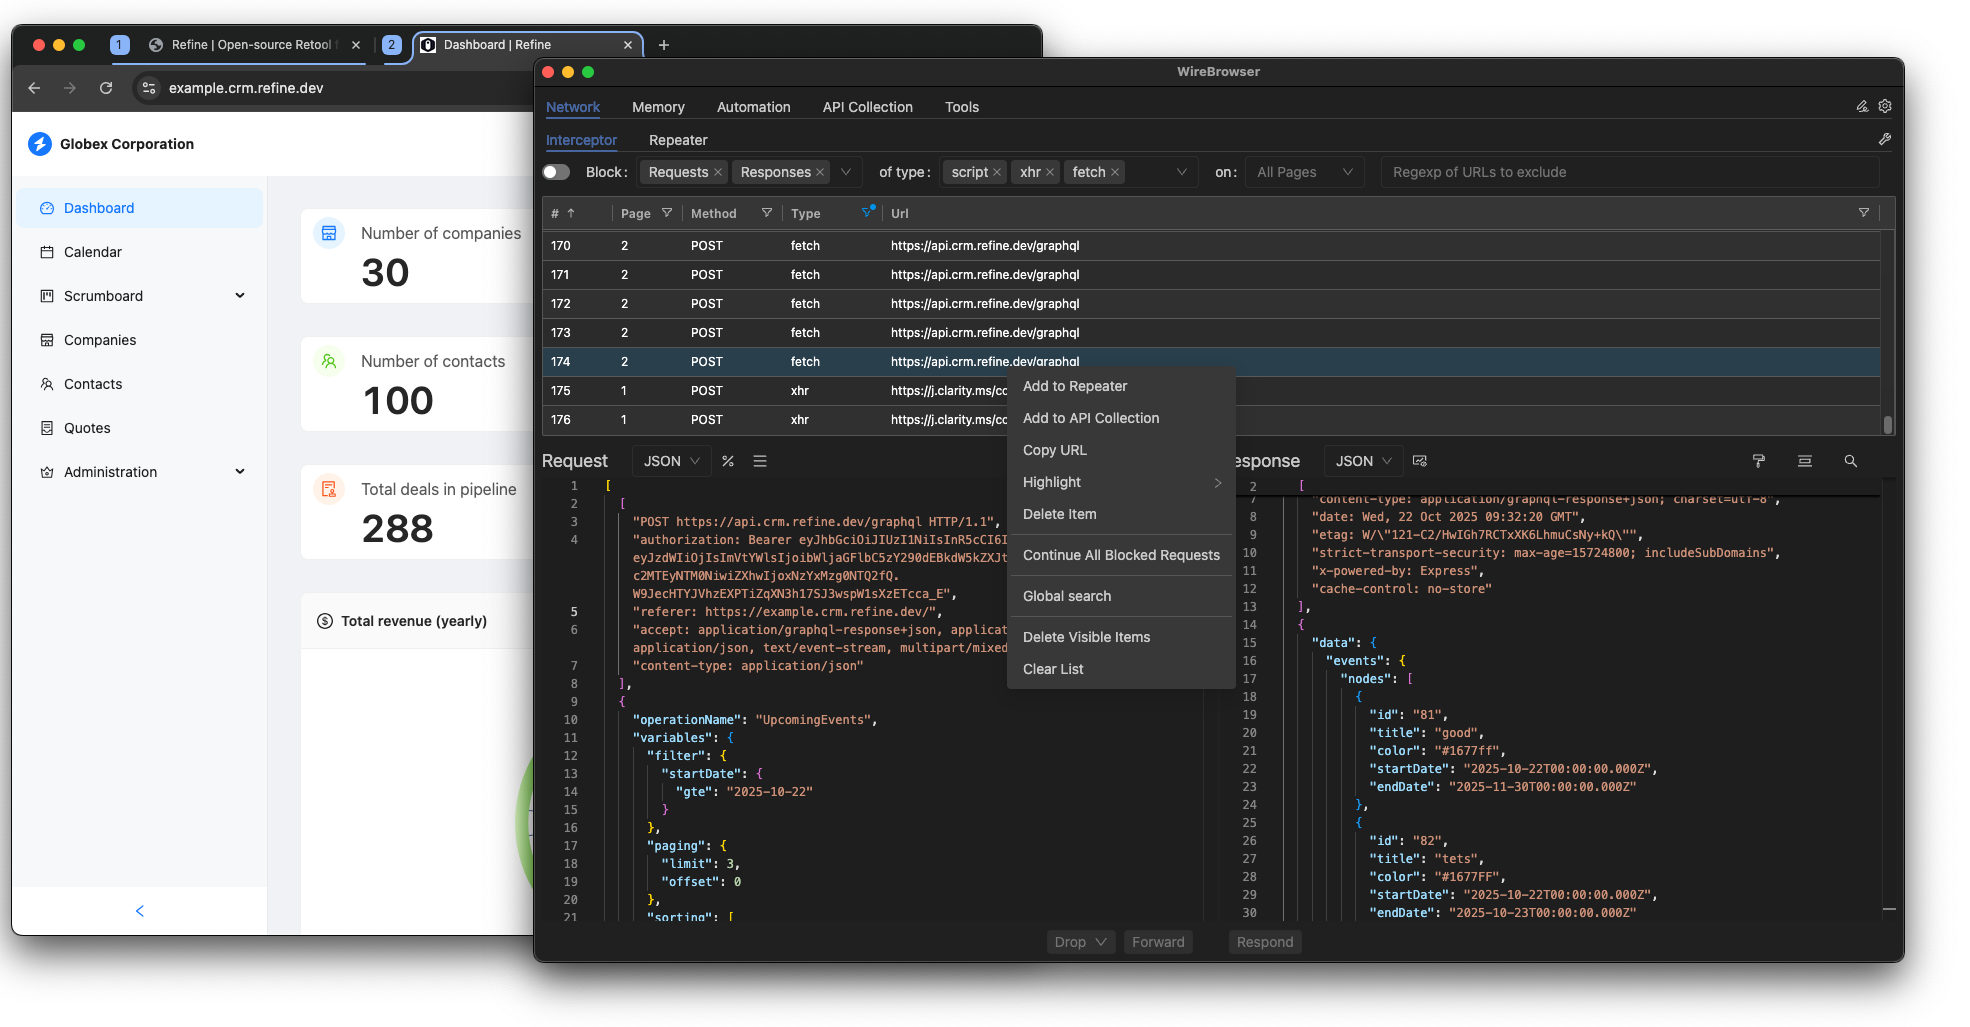
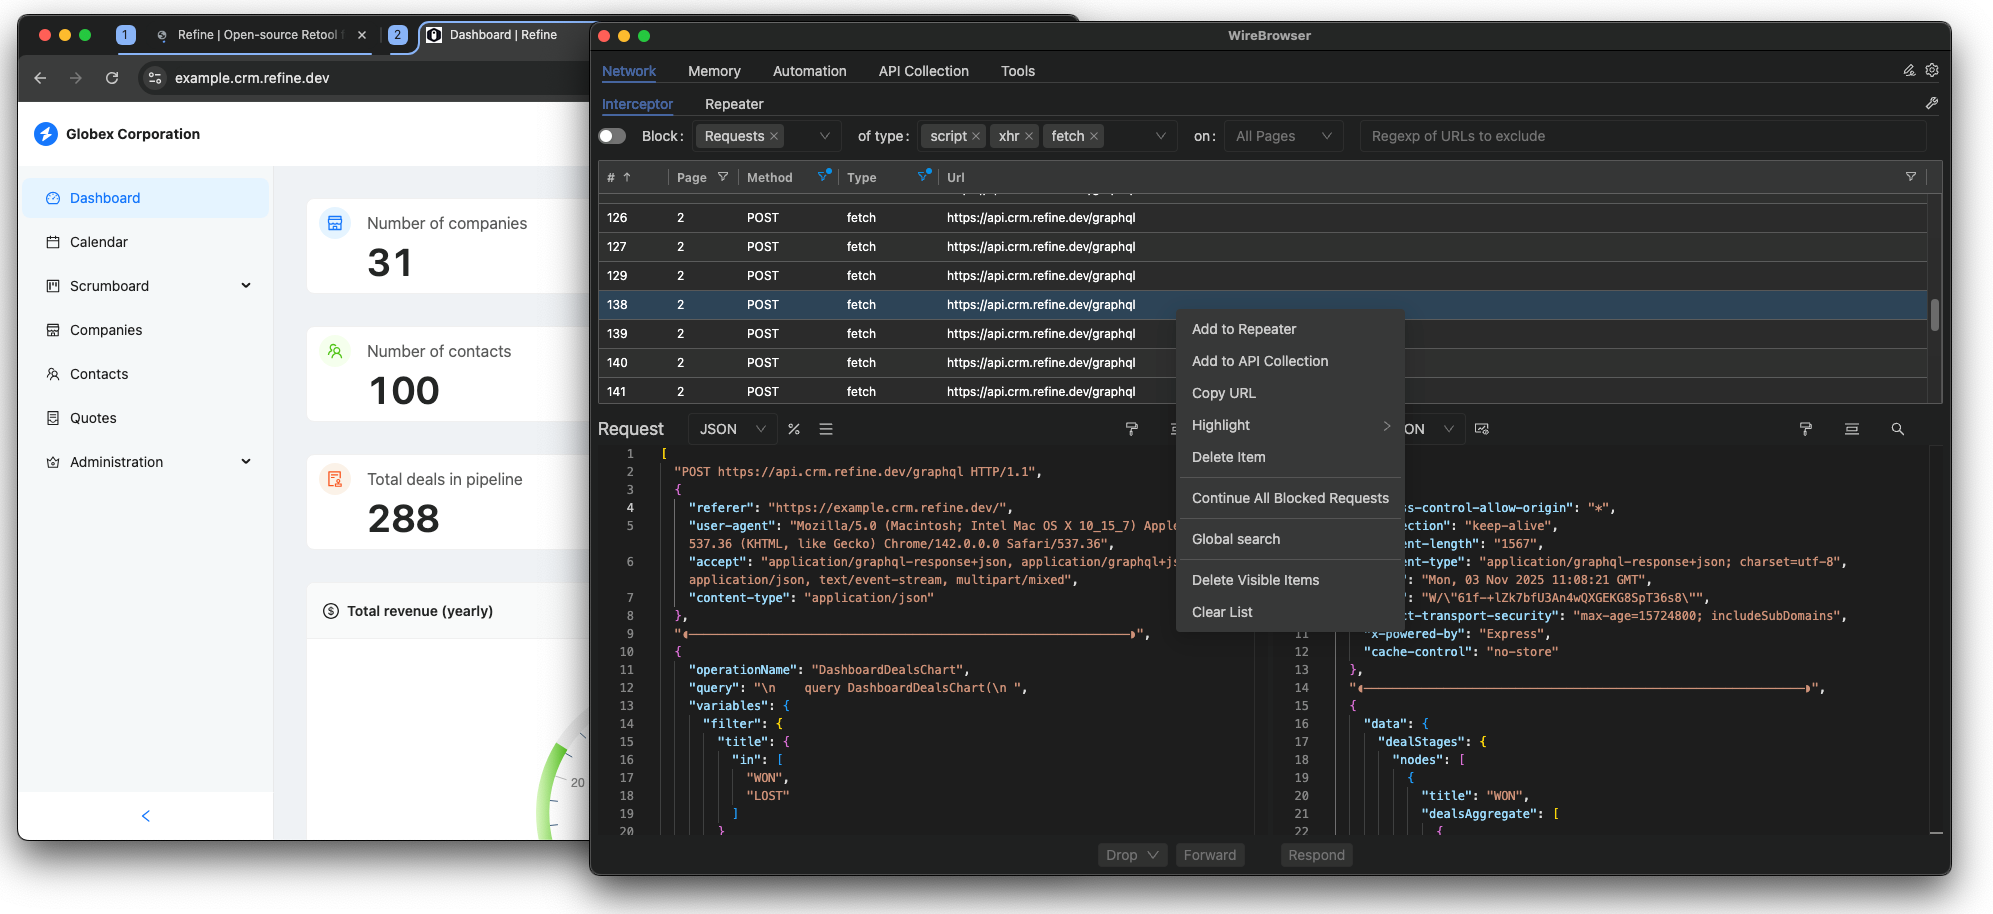
Added new JSON+ format and various bugfixes
* Added the ability to cancel requests
* New request JSON format
* Added JSON+ request format
* New icon and README updated
* Fixes for Linux

Changed region(s): [[0.0, 0.0, 0.9909, 1.0], [0.6193, 0.1225, 0.8051, 0.1838]]

diff --git a/src/common/models.js b/src/common/models.js
@@ -1,6 +1,8 @@
 import { textMatches, replaceVars, bashEscape, parseCurlCommand } from "#src/common/utils.js";
 
 export class NetworkMessage {
+  bodySparator = "◖─────────────────────────────────────────────────────────────◗";
+
   _parse({ r, id, reqId, pageId, type }, parseFirstLine) {
     let firstLine, headers;
     this.id = id;
@@ -9,50 +11,55 @@ export class NetworkMessage {
     this.type = type;
     try {
       const o = JSON.parse(r);
-      firstLine = o[0].shift();
-      headers = o[0];
-      this.data = typeof o[1] == 'object' ? JSON.stringify(o[1]) : o[1];
+      firstLine = o[0];
+      headers = o[1];
+      const body = o.length > 2 ? o[o.length - 1] : undefined;
+      this.data = typeof body === 'object' ? JSON.stringify(body) : body;
+      if (o.length === 3 && this.data === this.bodySparator) {
+        this.data = null;
+      }
     } catch (e) {
       const [h, d] = r.split("\n\n");
       headers = h.split("\n");
       firstLine = headers.shift();
       this.data = d;
     }
-    this.headers = {};
-    for (const header of headers) {
-      const [k, v] = header.split(/:(.+)/);
-      this.headers[k.trim()] = v.trim();
+    if (Array.isArray(headers)) {
+      this.headers = {};
+      for (const header of headers) {
+        const [k, v] = header.split(/:(.+)/);
+        this.headers[k.trim()] = v.trim();
+      }
+    } else {
+      this.headers = headers;
     }
     parseFirstLine(firstLine);
   }
 
   _serialize(format, firstLine) {
     let out;
-    const headers = Object.keys(this.headers).map(k => `${k}: ${this.headers[k]}`)
     switch (format) {
       case "text":
         out = [
           firstLine,
-          ...headers,
+          ...Object.keys(this.headers).map(k => `${k}: ${this.headers[k]}`),
           ...(this.data ? ["", this.data] : [])
         ];
         return out.join("\n");  // @TODO shall we use \r\n ?
       case "json":
-        let d = "";
+        out = [
+          firstLine,
+          this.headers,
+        ];
         if (this.data) {
+          let d;
           try {
             d = JSON.parse(this.data);
           } catch (e) {
             d = this.data;
           }
+          out.push(this.bodySparator, d);
         }
-        out = [
-          [
-            firstLine,
-            ...headers,
-          ],
-          ...(d ? [d] : [])
-        ]
         return JSON.stringify(out, null, 2);
     }
   }
@@ -99,6 +106,9 @@ export class Request extends NetworkMessage {
       this.response = req.response || null;
     } else {
       this._parse({ r: req, id, pageId, type }, (firstLine) => {
+        if (typeof firstLine !== 'string') {
+          firstLine = this._parseFirstLineArray(firstLine);
+        }
         const tokens = firstLine.split(" ").filter(t => t !== "");
         if (tokens.length < 3) {
           throw new Error("Error parsing request's first line");
@@ -117,6 +127,26 @@ export class Request extends NetworkMessage {
     }
   }
 
+  _parseFirstLineArray(arr) {
+    let i = 1;
+    let auth = "";
+    let hash = "";
+    let pars = "";
+    if (typeof arr[i] === 'object') {
+      auth = `${arr[i].username}:${arr[i].password}@`;
+      i++;
+    }
+    const purl = new URL(arr[i++]);
+    const fullUrl = `${purl.protocol}//${auth}${purl.host}${arr[i++]}`;
+    if (arr[i].length > 0) {
+      pars = `?${arr[i].join("&")}`
+    }
+    if (arr.length - 1 > ++i) {
+      hash = arr[i];
+    }
+    return `${arr[0]} ${fullUrl}${pars}${hash} ${arr[arr.length - 1]}`;
+  }
+
   serialize(format) {
     if (format === "curl") {
       const cmd = ["curl"];
@@ -132,7 +162,27 @@ export class Request extends NetworkMessage {
       cmd.push(this.url);
       return bashEscape(cmd);
     }
-    return this._serialize(format, `${this.method} ${this.url} ${this.httpVersion}`);
+    let firstLine = `${this.method} ${this.url} ${this.httpVersion}`;
+    if (format === "json+") {
+      const purl = new URL(this.url);
+      const params = [];
+      for (const [key, value] of purl.searchParams.entries()) {
+        params.push(`${key}=${value}`);
+      }
+      firstLine = [
+        this.method,
+        ...(purl.username || purl.password ? [
+          { username: purl.username || "", password: purl.password || "" }
+        ] : []),
+        purl.origin,
+        purl.pathname,
+        params,
+        ...(purl.hash ? [purl.hash] : []),
+        this.httpVersion
+      ];
+      return this._serialize("json", firstLine);
+    }
+    return this._serialize(format, firstLine);
   }
 
   compare(request) {

diff --git a/src/gui/components/request-editor.jsx b/src/gui/components/request-editor.jsx
@@ -128,6 +128,7 @@ const RequestEditor = ({
     if (!reqModifiedValue) {
       return currentRequest;
     }
+    new Request(reqModifiedValue, currentRequest.id, currentRequest.pageId, currentRequest.type);
     try {
       return new Request(reqModifiedValue, currentRequest.id, currentRequest.pageId, currentRequest.type);
     } catch (e) {
@@ -173,7 +174,7 @@ const RequestEditor = ({
               ref={reqEditorRef}
               showActions={true}
               value={reqValue}
-              language={reqView}
+              language={reqView === "json+" ? "json" : reqView}
               onChange={handleRequestChange}
               header={
                 <Space size="large">
@@ -181,10 +182,11 @@ const RequestEditor = ({
                   <span>
                     <Select
                       defaultValue="json"
-                      style={{ width: 80 }}
+                      style={{ width: 90 }}
                       onChange={requestViewChange}
                       options={[
                         { value: 'json', label: 'JSON' },
+                        { value: 'json+', label: 'JSON+' },
                         { value: 'text', label: 'RAW' },
                         { value: 'curl', label: 'cURL' },
                       ]}
@@ -277,7 +279,7 @@ const RequestEditor = ({
                   <span>
                     <Select
                       defaultValue="json"
-                      style={{ width: 80 }}
+                      style={{ width: 90 }}
                       onChange={responseViewChange}
                       options={[
                         { value: 'json', label: 'JSON' },

diff --git a/src/app/main.js b/src/app/main.js
@@ -57,14 +57,22 @@ const newBrowser = async (settingsManager) => {
   if (settingsManager.settings?.global?.browser?.disableCache) {
     chromeArgs.push('--disable-http-cache');
   }
-
-  browser = await puppeteer.launch({
-    headless: false,
-    defaultViewport: null,
-    ignoreHTTPSErrors: true,
-    userDataDir: settingsManager.settings?.global?.browser?.dataDir || undefined,
-    args: chromeArgs
-  });
+  try {
+    browser = await puppeteer.launch({
+      headless: false,
+      defaultViewport: null,
+      ignoreHTTPSErrors: true,
+      userDataDir: settingsManager.settings?.global?.browser?.dataDir || undefined,
+      args: chromeArgs
+    });
+  } catch (e) {
+    console.log("\n\nPuppeteer failed to launch.");
+    console.log("If you are on ARM Linux, Puppeteer doesn’t provide a bundled Chromium.");
+    console.log("Install a compatible version of Chromium manually (e.g. `sudo apt install chromium-browser`), then set:");
+    console.log("  export PUPPETEER_EXECUTABLE_PATH=$(which chromium-browser)");
+    uiEvents.dispatch("Error", `Puppeteer failed to launch, see the console for detailed error messages`);
+    return null;
+  }
   await initBrowser(browser, settingsManager, false);
   return browser;
 }
@@ -183,6 +191,9 @@ export const main = async (window) => {
 
   uiEvents.on("runBrowser", async (data) => {
     browser = await newBrowser(settingsManager);
+    if (!browser) {
+      return;
+    }
     uiEvents.dispatch("browserRunning");
   });
   uiEvents.on("restartBrowser", async (data) => {

diff --git a/src/electron/main.js b/src/electron/main.js
@@ -1,4 +1,4 @@
-import { app, BrowserWindow, ipcMain, dialog, nativeImage } from "electron";
+import { app, BrowserWindow, ipcMain, dialog, nativeImage, Menu } from "electron";
 import path from "path";
 import { fileURLToPath } from "url";
 import { main, quit } from "#src/app/main.js";
@@ -9,12 +9,14 @@ const __dirname = path.dirname(__filename);
 let win;
 let isQuitting = false;
 function createWindow() {
-  app.dock.setIcon(
-    nativeImage.createFromPath(path.join(__dirname, 'icon.png'))
-  );
-  
+  if (app.dock) {
+    app.dock.setIcon(
+      nativeImage.createFromPath(path.join(__dirname, 'icon.png'))
+    );
+  }
+
   win = new BrowserWindow({
-    width: 2000,
+    width: 1500,
     height: 800,
     webPreferences: {
       preload: path.join(__dirname, 'preload.js'),
@@ -27,6 +29,7 @@ function createWindow() {
     win.webContents.openDevTools();
   } else {
     win.loadFile(path.join(__dirname, '../../dist/index.html'));
+    Menu.setApplicationMenu(null);
   }
   main(win)
 }

diff --git a/README.md b/README.md
@@ -1,10 +1,21 @@
 # Wirebrowser
 
-**Wirebrowser** is a unified debugging and automation suite built on the **Chrome DevTools Protocol (CDP)**.  
-Its mission is to merge the power of **Burp Suite**, **Postman**, and **Chrome DevTools** — in one extensible tool.  
+![Open Source](https://img.shields.io/badge/open%20source-yes-blue)
+![Built on CDP](https://img.shields.io/badge/built%20on-CDP-orange)
+![License MIT](https://img.shields.io/github/license/fcavallarin/wirebrowser)
+![Contributions welcome](https://img.shields.io/badge/contributions-welcome-brightgreen)
 
-It provides a unified interface to inspect, intercept, automate, and test browser and API behaviors,making it an all-in-one companion for developers, testers, and researchers.
+**Wirebrowser** is a unified debugging and automation suite built on top of the **Chrome DevTools Protocol (CDP)**.
 
+Its mission is to bring together the most valuable workflows from tools like **Burp Suite**, **Postman**, and **Chrome DevTools**, and extend them in ways that simplify real-world investigation and testing. Wirebrowser already exposes unique capabilities — notably full-text **Heap Snapshot search** with regex — and focuses on making interception, inspection, modification and automated testing of browser and API behaviour seamless in a single extensible tool.
+
+Wirebrowser is aimed at developers, QA engineers, security researchers and pentesters who need to observe, manipulate and validate web and API flows — including the ability to rewrite requests and responses to test UI/UX and edge cases.
+
+---
+
+## ⚙ What’s coming
+
+Planned future capabilities include tighter DOM-level analysis (XSS scanning) and SPA crawling powered by existing open-source tooling (examples: [domdig](https://github.com/fcavallarin/domdig), [htcrawl](https://github.com/fcavallarin/htcrawl)). These will augment Wirebrowser’s inspection and automation features, keeping the project extensible and community-driven.
 
 ---
 
@@ -39,13 +50,29 @@ Wirebrowser is divided into **5 main sections**, each containing specialized too
 git clone https://github.com/fcavallarin/wirebrowser.git
 cd wirebrowser
 npm install
-npm build
+npm run build
 ```
 
 ### Run
 ```bash
 npm run wirebrowser
 ```
+
+### 🐧 Linux - Sandbox issue with Electron
+On some Linux distributions, Electron may fail to start due to process sandboxing restrictions, showing errors such as:
+
+```
+The SUID sandbox helper binary was found, but is not configured correctly.
+```
+
+This is a known issue in Electron ([https://github.com/electron/electron/issues/42510]).  
+The most common solution is to disable AppArmor restrictions:
+
+```
+sudo sysctl -w kernel.apparmor_restrict_unprivileged_userns=1
+```
+
+---
 
 ## ✨ Features
 
@@ -144,20 +171,36 @@ Every tab/page opened by Wirebrowser has a unique integer `tabId`. Use this `tab
 
 ## ❓ Why Wirebrowser?
 
-While tools like Chrome DevTools, Burp Suite, and Postman are powerful, they are isolated and often lack automation and flexibility.  
-**Wirebrowser unifies these workflows** with advanced capabilities:
+Powerful tools like Chrome DevTools, Burp Suite, and Postman solve specific parts of a workflow — but they run in isolation. You inspect HTTP with one tool, debug memory in another, and trigger tests or automations with yet another one. This fragmentation makes real-world debugging slow, repetitive, and error-prone.
 
-- ✅ **Rewrite requests and responses** dynamically.  
-- ✅ **Search in memory** for objects or values using regex.  
-- ✅ **Integrate scripting and automation** natively.  
-- ✅ **API testing built-in**, no need for external tools.  
-- ✅ **All-in-one environment** for debugging, automation, and inspection.  
-- ✅ **Script-friendly architecture**, exposing structured JSON data and CDP hooks.  
+**Wirebrowser unifies these workflows** and extends them with distinctive capabilities like:
 
+- 🔎 **Full-text Heap Snapshot search with regex** — find objects by value, even in deep or unreachable memory.
+- 🌐 **Intercept, modify, and replay requests/responses** — like Burp, but  browser-native.
+- 🛠 **API editing in JSON, RAW, or cURL formats** — without leaving the tool.
+- ⚡ **Built-in scripting and CDP hooks** — ideal for automation, fuzzing, or browser testing flows.
+- 🧰 **One environment for network, memory, and automation tasks** — no context switching.
+- 🔁 **Replay UI changes by modifying responses** — test edge cases directly in the browser.
+- ⚙ **Script-friendly architecture**, exposing structured JSON data and CDP hooks. 
 
-With Wirebrowser, developers, testers, and researchers can **observe, manipulate, and automate the web** — all from one powerful interface.
+Wirebrowser accelerates the everyday workflows of developers, QA engineers, security researchers, and pentesters — especially where other tools fall short or require manual glue code.
 
 ---
+
+## 🚫 What Wirebrowser is not
+
+Wirebrowser is not a full replacement for tools like Burp Suite, Postman, or Chrome DevTools:
+
+- ❌ It is **not** a complete web proxy with active scanning modules (yet).
+- ❌ It is **not** a front-end debugger with DOM inspector, CSS tools, or breakpoints.
+- ❌ It is **not** a Postman competitor with public APIs, cloud workspaces, or auth flows.
+
+Instead, Wirebrowser focuses on **unifying the 20% of features that solve 80% of debugging and investigation workflows** — and enhancing them with memory analysis, automation, and CDP-powered capabilities you won’t find in any single tool today.
+
+The goal is not to replace those tools — but to make their most useful capabilities more seamless, scriptable, and powerful in one place.
+
+---
+
 
 ## 🛠 Tech Stack
 
@@ -199,6 +242,16 @@ Planned and potential upcoming features for Wirebrowser:
 
 ---
 
+## 🤝 Community & Support
+
+Wirebrowser is being built in the open — contributions and feedback are welcome!
+
+- 💬 Chat coming soon (Discord or Matrix)
+- 🐦 Follow updates on X/Twitter: https://x.com/wirebrowser
+- 🧠 Issues & Ideas: https://github.com/fcavallarin/wirebrowser/issues
+
+---
+
 ## 🤝 Contributing
 
 Contributions and pull requests are welcome!  
@@ -208,5 +261,5 @@ Open an issue or pull request — even small suggestions help improve Wirebrowse
 
 ## 📜 License
 
-Distributed under the **MIT License**.  
+Wirebrowser™ is distributed under the **MIT License**.  
 See the [LICENSE](LICENSE) file for more details.
